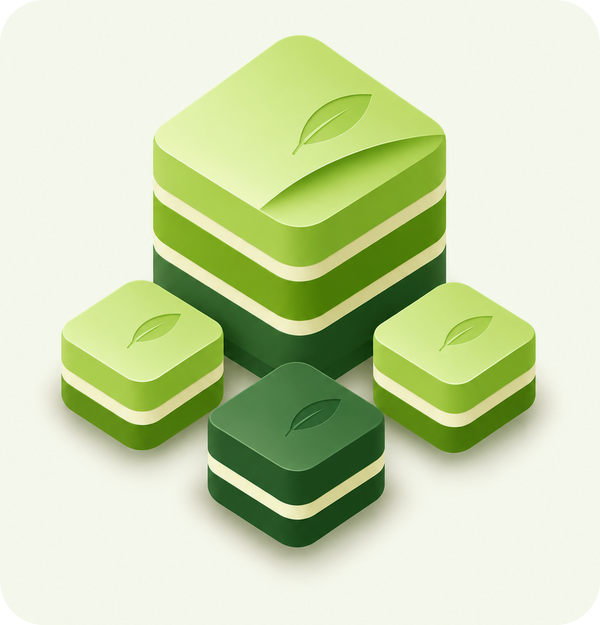
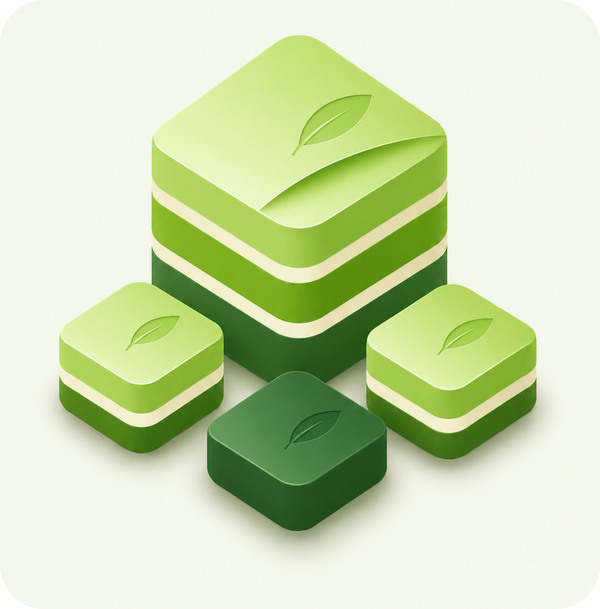
README picture: the other project is one layer (drawing 32)
The front block was two dark layers, which the store does not have; it
is now one layer of the store's bottom green, lower than the two
worktree blocks, so it reads as another project taking another part
of the same store. Alt text says so.

diff --git a/README.md b/README.md
@@ -8,7 +8,7 @@ Works with npm 10, 11 and 12 on macOS (APFS) and on Linux with Btrfs or XFS, and
 
 [Install](#install) · [Use](#use) · [Do you need it?](#do-you-need-matchapack) · [Limits](#limits) · [FAQ](docs/faq.md) · [How it works](docs/architecture.md) · [How it is tested](TESTING.md) · [Install with Claude Code](INSTALL-WITH-CLAUDE.md)
 
-<img align="right" width="240" src="docs/assets/matchapack-hero.png" alt="A large three-layer matcha cake stands for the store. Beside it, two small blocks in the same shade are two worktrees of one project, cloned from the store, and a third block in another shade is a second project that takes its packages from the same store.">
+<img align="right" width="240" src="docs/assets/matchapack-hero.png" alt="A large three-layer matcha cake stands for the store. Beside it, two small blocks in the same shade are two worktrees of one project, cloned from the store, and a lower block of one dark layer, the store's bottom layer, is a second project that takes another part of the same store.">
 
 ① The first install of a package puts one copy of it in the store (`~/.cache/matchapack/store`), which all your projects share.
 
